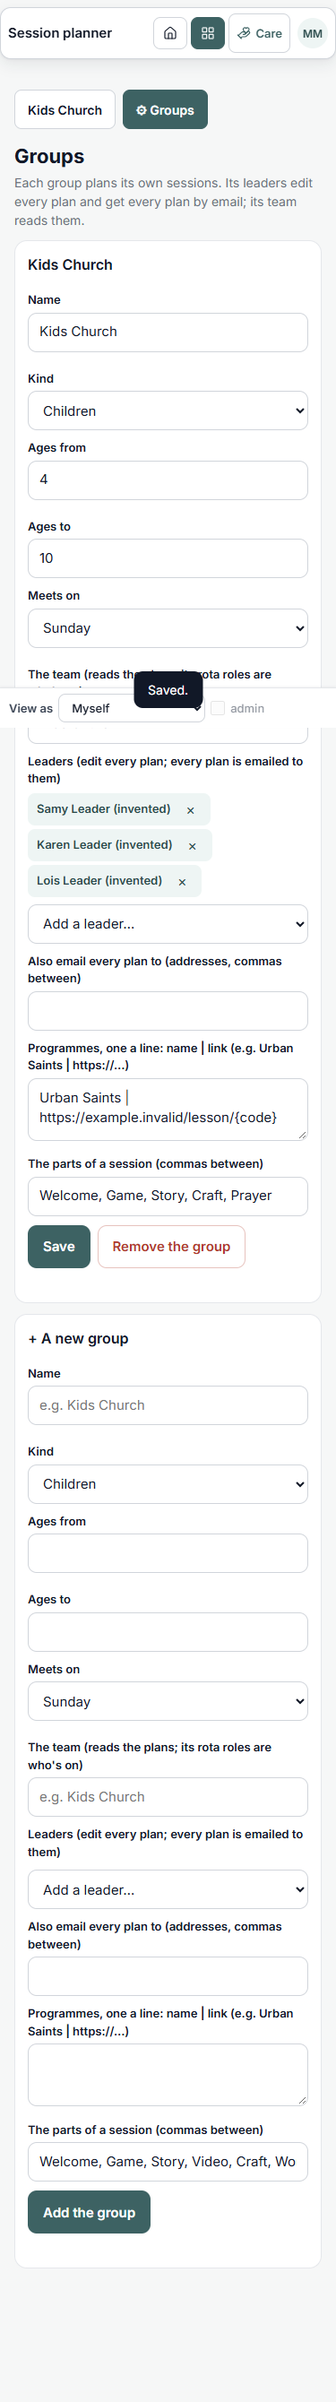
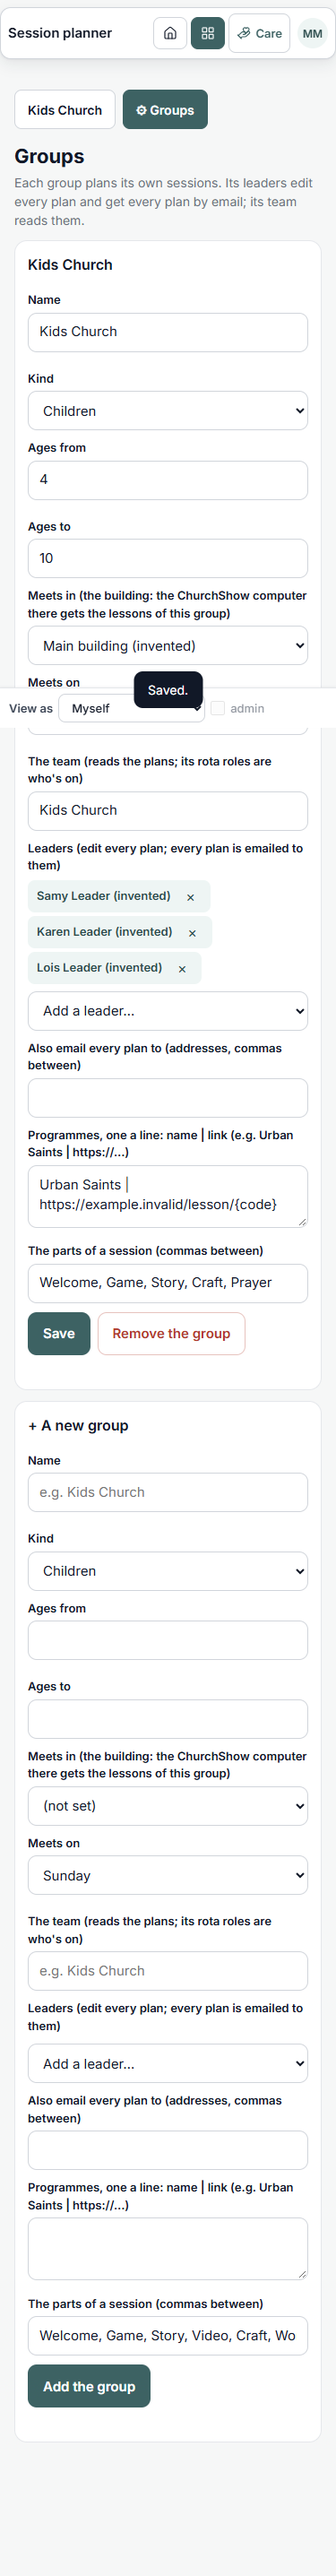
Events: lessonFor(date, groupId?) for ChurchShow Lesson mode - its own building only
- a paired, active ChurchShow computer gets that date's lessons (egbc-lesson/1)
  of the groups meeting in its own building (planGroups.siteId, set in
  Groups: 'Meets in'); another building's group by id is refused; a sign-in
  claiming another building is refused
- files and video as short-lived signed links (3 hours), never the stored ones
- leaders' notes and things to bring never sent
- session-planner.test 42/42 (twice; the Bible Gateway flake fixed), rules
  1457/1457, 6 breaks caught

diff --git a/v2/functions/lesson.js b/v2/functions/lesson.js
@@ -1,64 +1,97 @@
 /* ===================================================================
-   EGBC — a session plan for ChurchShow (F-225, agreed 16 Oct)
+   EGBC — the day's lessons for ChurchShow (F-225, F-228; agreed 16 Oct)
    ===================================================================
 
-     lessonFor   callable, a PAIRED ChurchShow device only:
-                   { date: 'YYYY-MM-DD' }  -> { lessons: [{ id, group, title, date }] }
-                   { sessionId }           -> the plan as 'egbc-lesson/1'
+     lessonFor   callable, a PAIRED ChurchShow computer only:
+                   { date: 'YYYY-MM-DD', groupId? }
+                   -> { date, siteId, lessons: [ egbc-lesson/1, ... ] }
+
+   ONLY THE COMPUTER'S OWN BUILDING. A paired computer is one building
+   (churchshow-<siteId>); it gets that date's plans of the groups that meet
+   in that building (planGroups.siteId), and nothing of any other. Asking
+   for another building's group by its id is refused.
 
    The device is checked the way churchshow.js and the rules' churchShow()
-   do: signed in with the token claim device == 'churchshow', and
-   devices/<uid>.active true - read on every call, so Disconnect on the hub
-   stops it at once. churchshow.js is not changed.
+   do: the token claim device == 'churchshow', and devices/<uid>.active true
+   - read on every call, so Disconnect on the hub stops it at once. Its
+   building is the one on the device record (and the token must agree).
+   churchshow.js is not changed.
 
-   THE FORMAT (egbc-lesson/1, F-225):
+   FILES AND VIDEO come as SHORT-LIVED download links (signed, three hours:
+   long enough for a morning), never the plan's own long-lived links.
+   LEADERS' NOTES and "things to bring" are never sent to a screen device.
+
+   egbc-lesson/1 (F-225):
      { format, id, group: { id, name, ages }, date, title, programme,
        lessonCode, lessonLink, passage: { ref, version, source, text,
        copyright }, steps: [ { part, partId, n, type, ... } ] }
-   Every part's "show on screen" steps, in order. A Bible Gateway passage
-   carries only ref and version (ChurchShow fetches it itself). Leaders'
-   notes and "things to bring" are not sent to a screen device.
+   A Bible Gateway passage carries only ref and version (ChurchShow
+   fetches it itself).
    =================================================================== */
 
 import { onCall, HttpsError } from 'firebase-functions/v2/https';
 import { getFirestore } from 'firebase-admin/firestore';
+import { getStorage } from 'firebase-admin/storage';
 
 const REGION = 'europe-west2';
 const db = () => getFirestore();
+const LINK_MS = 3 * 60 * 60 * 1000;
+const EMULATOR = !!process.env.FUNCTIONS_EMULATOR;
 
 async function device(req) {
   const a = req.auth;
-  if (!a || !a.token || a.token.device !== 'churchshow') throw new HttpsError('permission-denied', 'Only a paired ChurchShow computer can ask for a lesson.');
+  if (!a || !a.token || a.token.device !== 'churchshow') throw new HttpsError('permission-denied', 'Only a paired ChurchShow computer can ask for lessons.');
   const d = await db().collection('devices').doc(a.uid).get();
-  if (!d.exists || d.data().active !== true) throw new HttpsError('permission-denied', 'This ChurchShow computer has been disconnected on the hub.');
-  return d.data();
+  const x = d.exists ? d.data() : null;
+  if (!x || x.active !== true) throw new HttpsError('permission-denied', 'This ChurchShow computer has been disconnected on the hub.');
+  const siteId = String(x.siteId || '');
+  if (!siteId || (a.token.siteId && String(a.token.siteId) !== siteId)) throw new HttpsError('permission-denied', 'This ChurchShow computer is not paired to a building.');
+  return { siteId };
+}
+
+/* A short-lived link to a file the plan holds (by its Storage path). */
+async function link(path) {
+  if (!path || !/^planner\//.test(path)) return '';
+  const file = getStorage().bucket().file(path);
+  const expires = Date.now() + LINK_MS;
+  if (EMULATOR) {
+    /* The Storage emulator cannot sign; it serves the file by its path. The
+       test checks the path and the expiry are what a real link would carry. */
+    const b = getStorage().bucket().name;
+    return 'http://' + (process.env.FIREBASE_STORAGE_EMULATOR_HOST || '127.0.0.1:9198') + '/v0/b/' + b + '/o/' + encodeURIComponent(path) + '?alt=media&expires=' + expires;
+  }
+  const [url] = await file.getSignedUrl({ action: 'read', expires });
+  return url;
 }
 
 const KEEP = {
   verses: ['ref', 'version', 'source', 'text', 'copyright'],
-  song: ['songId', 'title', 'ccli'],
-  video: ['url', 'name', 'seconds'],
-  youtube: ['videoId', 'start'],
-  picture: ['url', 'name'],
-  pptx: ['officeUrl', 'fileUrl', 'name'],
-  text: ['words'],
   memory: ['ref', 'version', 'source', 'text', 'copyright'],
+  song: ['songId', 'title', 'ccli'],
+  video: ['name', 'seconds'],
+  picture: ['name'],
+  youtube: ['videoId', 'start'],
+  pptx: ['officeUrl', 'name'],
+  text: ['words'],
   timer: ['seconds'],
   quiz: ['questions'],
   link: ['url', 'label']
 };
-export function step(st, part, n) {
+export async function step(st, part, n) {
   const keep = KEEP[st.type]; if (!keep) return null;
   const out = { part: String(part.title || part.kind || ''), partId: String(part.id || ''), n, type: st.type };
   keep.forEach(k => { if (st[k] !== undefined && st[k] !== null && st[k] !== '') out[k] = st[k]; });
   /* Bible Gateway: the reference only, never text. */
   if ((st.type === 'verses' || st.type === 'memory') && st.source === 'biblegateway') { delete out.text; delete out.copyright; }
+  /* Files and video: a fresh short-lived link, never the stored one. */
+  if (st.type === 'video' || st.type === 'picture') { out.url = await link(st.path); out.expiresInMinutes = LINK_MS / 60000; }
+  if (st.type === 'pptx' && st.path) out.fileUrl = await link(st.path);
   return out;
 }
-export function lessonOf(id, s, g) {
+export async function lessonOf(id, s, g) {
   let n = 0;
   const steps = [];
-  (s.parts || []).forEach(p => (p.show || []).forEach(st => { const x = step(st, p, ++n); if (x) steps.push(x); }));
+  for (const p of (s.parts || [])) for (const st of (p.show || [])) { const x = await step(st, p, ++n); if (x) steps.push(x); }
   const pa = s.passage || null;
   return {
     format: 'egbc-lesson/1', id, group: { id: s.groupId, name: g.name || '', ages: [g.ageFrom || 0, g.ageTo || 0] },
@@ -70,26 +103,29 @@ export function lessonOf(id, s, g) {
 }
 
 export const lessonFor = onCall({ region: REGION }, async (req) => {
-  await device(req);
+  const dev = await device(req);
   const d = req.data || {};
-  if (d.date !== undefined) {
-    if (!/^\d{4}-\d{2}-\d{2}$/.test(String(d.date))) throw new HttpsError('invalid-argument', 'A date, as YYYY-MM-DD.');
-    const snap = await db().collection('planSessions').where('date', '==', d.date).get();
-    const groups = {};
-    const out = [];
+  const date = String(d.date || '');
+  if (!/^\d{4}-\d{2}-\d{2}$/.test(date)) throw new HttpsError('invalid-argument', 'A date, as YYYY-MM-DD.');
+  /* This building's groups only. */
+  const gs = await db().collection('planGroups').where('siteId', '==', dev.siteId).get();
+  const groups = {};
+  gs.docs.forEach(x => { if (!x.data().archived) groups[x.id] = x.data(); });
+  if (d.groupId !== undefined && d.groupId !== '') {
+    const gid = String(d.groupId);
+    if (!groups[gid]) throw new HttpsError('permission-denied', 'That group does not meet in this computer\'s building.');
+    Object.keys(groups).forEach(k => { if (k !== gid) delete groups[k]; });
+  }
+  const ids = Object.keys(groups);
+  const lessons = [];
+  for (let i = 0; i < ids.length; i += 10) {
+    const snap = await db().collection('planSessions').where('date', '==', date).where('groupId', 'in', ids.slice(i, i + 10)).get();
     for (const doc of snap.docs) {
       const s = doc.data();
       if (s.special === 'none') continue;
-      if (!groups[s.groupId]) groups[s.groupId] = (await db().collection('planGroups').doc(String(s.groupId)).get()).data() || {};
-      out.push({ id: doc.id, group: groups[s.groupId].name || '', title: s.title || '', date: s.date });
+      lessons.push(await lessonOf(doc.id, s, groups[s.groupId] || {}));
     }
-    return { lessons: out };
   }
-  const id = String(d.sessionId || '');
-  if (!/^[A-Za-z0-9_-]{1,80}$/.test(id)) throw new HttpsError('invalid-argument', 'Which lesson?');
-  const doc = await db().collection('planSessions').doc(id).get();
-  if (!doc.exists) throw new HttpsError('not-found', 'That lesson could not be found.');
-  const s = doc.data();
-  const g = (await db().collection('planGroups').doc(String(s.groupId)).get()).data() || {};
-  return lessonOf(id, s, g);
+  lessons.sort((a, b) => a.group.name.localeCompare(b.group.name));
+  return { date, siteId: dev.siteId, lessons };
 });

diff --git a/v2/session-planner.html b/v2/session-planner.html
@@ -96,7 +96,7 @@
      (session-planner.html, not planner.html: on Windows that is the same
      file as the Rota Planner, Planner.html.) */
   var E = window.EGBCEvents, B = window.EGBCBible, esc = E.esc;
-  var ME = {}, MASTER = false, GROUPS = [], G = null, SESS = [], S = null, PEOPLE = {}, MARKERS = {}, TEAMMEM = [], VIEW = 'term', DIRTY = false, OPEN = {};
+  var SITES = [], ME = {}, MASTER = false, GROUPS = [], G = null, SESS = [], S = null, PEOPLE = {}, MARKERS = {}, TEAMMEM = [], VIEW = 'term', DIRTY = false, OPEN = {};
   var KINDS = ['Welcome', 'Game', 'Story', 'Video', 'Craft', 'Worship', 'Prayer', 'Quiz', 'Talk', 'Discussion', 'Other'];
   var DAYS = ['Sunday', 'Monday', 'Tuesday', 'Wednesday', 'Thursday', 'Friday', 'Saturday'];
   var STEP_TYPES = [['verses', 'Bible verses'], ['video', 'Video file'], ['youtube', 'YouTube'], ['picture', 'Picture'], ['song', 'Song'], ['memory', 'Memory verse'],
@@ -236,6 +236,7 @@
           '<div class="grid2"><div><label class="l">Name</label><input class="inp" data-gf="name" maxlength="60" value="' + esc(g.name || '') + '" placeholder="e.g. Kids Church"></div>' +
           '<div><label class="l">Kind</label><select data-gf="kind">' + [['children', 'Children'], ['youth', 'Youth'], ['sermon', 'Sermons (the preaching team)'], ['other', 'Other']].map(function (k) { return '<option value="' + k[0] + '"' + (g.kind === k[0] ? ' selected' : '') + '>' + k[1] + '</option>'; }).join('') + '</select></div></div>' +
           '<div class="grid2"><div><label class="l">Ages from</label><input class="inp" type="number" data-gf="ageFrom" value="' + esc(g.ageFrom || '') + '"></div><div><label class="l">Ages to</label><input class="inp" type="number" data-gf="ageTo" value="' + esc(g.ageTo || '') + '"></div></div>' +
+          '<label class="l">Meets in (the building: the ChurchShow computer there gets the lessons of this group)</label><select data-gf="siteId"><option value="">(not set)</option>' + SITES.map(function (x) { return '<option value="' + esc(x.id) + '"' + (g.siteId === x.id ? ' selected' : '') + '>' + esc(x.name || x.id) + '</option>'; }).join('') + '</select>' +
           '<div class="grid2"><div><label class="l">Meets on</label><select data-gf="day">' + DAYS.map(function (d, i) { return '<option value="' + i + '"' + (+(g.day || 0) === i ? ' selected' : '') + '>' + d + '</option>'; }).join('') + '</select></div>' +
           '<div><label class="l">The team (reads the plans; its rota roles are who\'s on)</label><input class="inp" data-gf="teamName" maxlength="60" value="' + esc(g.teamName || '') + '" placeholder="e.g. Kids Church"></div></div>' +
           '<label class="l">Leaders (edit every plan; every plan is emailed to them)</label><div data-gleaders="1">' + (g.leaderIds || []).map(function (i) { return '<span class="pill">' + esc(PEOPLE[i] || i) + '<button data-gldrop="' + esc(i) + '" aria-label="Take off">×</button></span>'; }).join('') + '</div>' +
@@ -395,7 +396,7 @@
       var v = sh.q('bpVer');
       if (src === 'bundled') B.versions().then(function (l) { v.innerHTML = l.map(function (x) { return '<option value="' + esc(x.id) + '">' + esc(x.name) + '</option>'; }).join(''); if (l.some(function (x) { return x.id === 'BSB'; })) v.value = 'BSB'; }, function (e) { v.innerHTML = '<option value="">' + esc(e.message || e) + '</option>'; });
       else if (src === 'apibible') { v.innerHTML = '<option value="">Asking API.Bible…</option>'; B.apiVersions().then(function (l) { v.innerHTML = l.map(function (x) { return '<option value="' + esc(x.id) + '" data-ab="' + esc(x.abbrev) + '">' + esc(x.name + (x.lang && x.lang !== 'English' ? ' (' + x.lang + ')' : '')) + '</option>'; }).join('') || '<option value="">No Bibles on the key</option>'; }, function (e) { v.innerHTML = '<option value="">' + esc(e.message || 'Not available') + '</option>'; }); }
-      else v.innerHTML = B.GATEWAY_VERSIONS.map(function (x) { return '<option>' + esc(x) + '</option>'; }).join('');
+      else v.innerHTML = B.GATEWAY_VERSIONS.map(function (x) { return '<option value="' + esc(x) + '">' + esc(x) + '</option>'; }).join('');
     };
     sh.el.querySelectorAll('[data-src]').forEach(function (b) { b.onclick = function () { src = b.getAttribute('data-src'); sh.el.querySelectorAll('[data-src]').forEach(function (x) { x.setAttribute('aria-pressed', String(x === b)); }); fill(); }; });
     fill();
@@ -472,7 +473,7 @@
       card.querySelector('[data-gsave]').onclick = function () {
         var v = function (f) { return card.querySelector('[data-gf="' + f + '"]').value; }, msg = card.querySelector('[data-gmsg]');
         var name = v('name').trim(); if (!name) { msg.textContent = 'Give the group a name.'; return; }
-        var doc = { name: name.slice(0, 60), kind: v('kind'), ageFrom: +v('ageFrom') || 0, ageTo: +v('ageTo') || 0, day: +v('day') || 0, time: g.time || '',
+        var doc = { name: name.slice(0, 60), kind: v('kind'), ageFrom: +v('ageFrom') || 0, ageTo: +v('ageTo') || 0, day: +v('day') || 0, time: g.time || '', siteId: v('siteId'),
           leaderIds: card._leaders.slice(0, 30), teamName: v('teamName').trim().slice(0, 60),
           emails: v('emails').split(',').map(function (x) { return x.trim().toLowerCase(); }).filter(function (x) { return /^[^@\s]+@[^@\s]+\.[^@\s]+$/.test(x); }).slice(0, 20),
           programmes: v('programmes').split('\n').map(function (l) { var p = l.split('|'); return { name: (p[0] || '').trim().slice(0, 60), link: (p[1] || '').trim().slice(0, 300) }; }).filter(function (p) { return p.name; }).slice(0, 12),
@@ -529,7 +530,8 @@
     MASTER = !!(EGBCAuth.isMaster && EGBCAuth.isMaster());
     return Promise.all([
       db().collection('addressBook').get().then(function (s) { s.docs.forEach(function (d) { var x = d.data(); if (x.name && !x.archived) { PEOPLE[d.id] = x.name; MARKERS[d.id] = x.markers || []; } }); }).catch(function () {}),
-      EGBCChurch.load ? EGBCChurch.load().catch(function () {}) : null
+      EGBCChurch.load ? EGBCChurch.load().catch(function () {}) : null,
+      db().collection('sites').get().then(function (s) { SITES = all(s).filter(function (x) { return x.active !== false; }).sort(function (a, b) { return (a.order || 0) - (b.order || 0); }); }).catch(function () {})
     ]).then(loadGroups);
   }).then(function () {
     var want = (location.search.match(/[?&]s=([\w-]+)/) || [])[1];

diff --git a/v2/FINDINGS-events.md b/v2/FINDINGS-events.md
@@ -7357,3 +7357,33 @@ switching on in the console at part 3.
   Gateway reference only, no notes, disconnected refused, a person refused); 6 deliberate
   breaks, all caught.
 - **Deploy:** `lessonFor`, and `bibleKeyStatus` / `bibleKeySave` again (they changed).
+
+### F-228 — lessonFor, as agreed for ChurchShow Lesson mode (replaces F-227's first version)
+
+**Call:** `lessonFor({ date: 'YYYY-MM-DD', groupId? })`, a Firebase callable in europe-west2,
+made with the paired computer's own sign-in.
+**Returns:** `{ date, siteId, lessons: [ egbc-lesson/1, … ] }`.
+
+- **Paired computers only,** checked as churchshow.js and the rules' `churchShow()` do: the
+  token claim `device == 'churchshow'`, and `devices/<uid>.active` read on every call, so
+  Disconnect stops it at once. churchshow.js isn't changed.
+- **Its own building only.** A plan group now has a building (`planGroups.siteId`, chosen in
+  ⚙ Groups: "Meets in"). A computer gets that date's lessons of the groups that meet in its
+  building, from the device record's `siteId`. A sign-in claiming another building is
+  refused. Asking for another building's group by id is refused.
+- **Files and video** come as short-lived signed download links (3 hours,
+  `expiresInMinutes: 180`), never the plan's own long-lived links. A PowerPoint step keeps
+  its `officeUrl`, plus a short-lived `fileUrl` if a copy was uploaded.
+- **Never sent:** leaders' notes and "things to bring". A Bible Gateway passage is the
+  reference and version only.
+- **Proved:** session-planner.test 42/42, including:
+  - another building's computer gets none, and is refused by group id
+  - an unpaired computer, one claiming the wrong building, a disconnected one and a person
+    are all refused
+  - links are short-lived
+  - notes are absent
+
+  Deliberate breaks: see the report.
+- **Deploy:** `lessonFor` (changed), with the rules (planGroups may now hold `siteId`).
+- **Before a group shows in ChurchShow,** a master admin sets its building in the planner's
+  ⚙ Groups.
